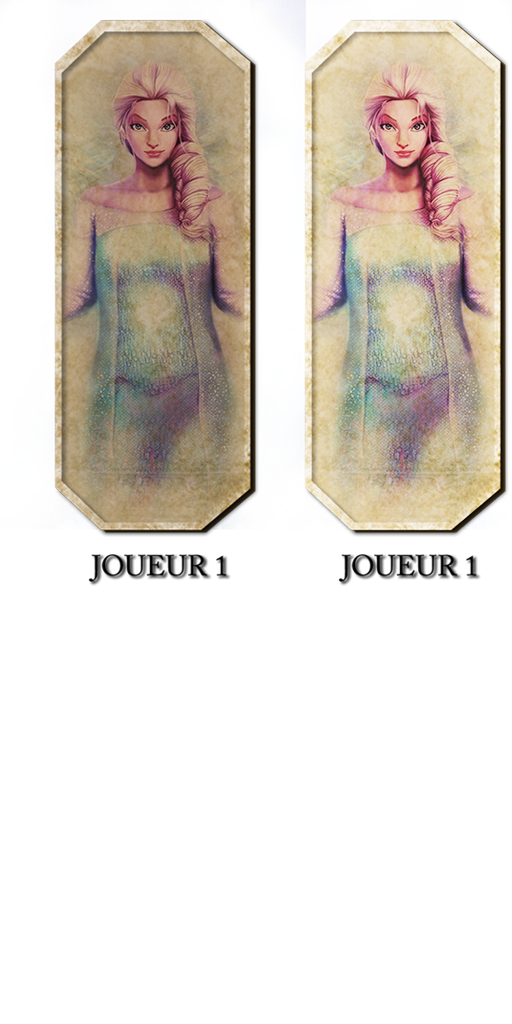
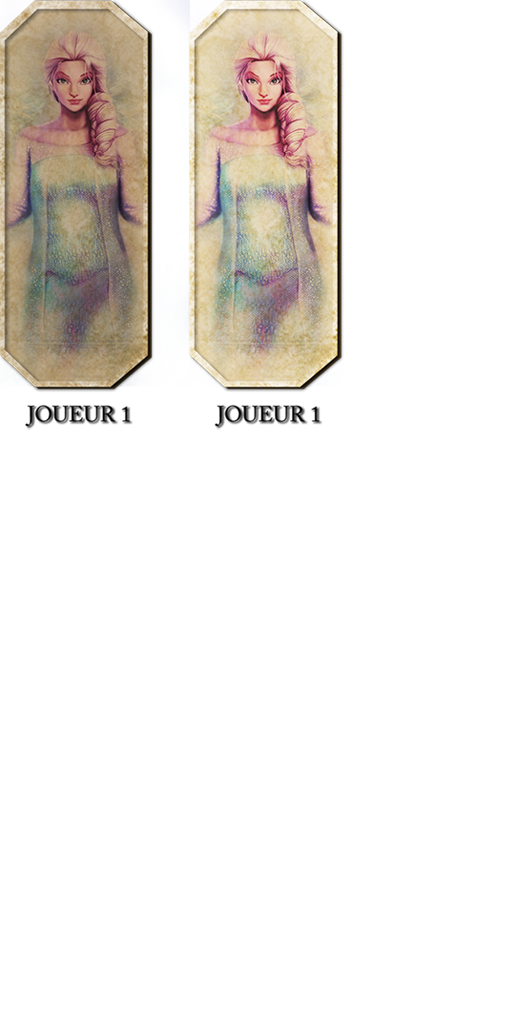
Changement du background, boutons nbjoueurs, bouton valider

diff --git a/LondonGame/src/fr/m1miage/london/game/screen/MainMenuScreen.java b/LondonGame/src/fr/m1miage/london/game/screen/MainMenuScreen.java
@@ -38,7 +38,7 @@ public class MainMenuScreen extends Screen {
 		draw(Art.bg, 0, 0);
 
 		font.draw(spriteBatch, "Nombre de joueurs :", 125, 170);
-		font.draw(spriteBatch, "Choix du skin/couleur :", 125, 250);
+		font.draw(spriteBatch, "Choix du skin/couleur :", 125, 400);
 		String msg = "COPYRIGHT Aethia 2014";
 		drawString(msg, 2, 800 -6 -2);
 		
@@ -47,9 +47,10 @@ public class MainMenuScreen extends Screen {
 		spriteBatch.end();
 		
 		stage.addActor(Buttons.button);
-		for(Button b: Buttons.buttonsNbj){
-			stage.addActor(b);
+		for(Integer mapKey : Buttons.buttonsNbj.keySet()){
+			stage.addActor(Buttons.buttonsNbj.get(mapKey));
 		}
+		stage.addActor(Buttons.btnValider);
 		stage.act();
 		stage.draw();
 	}

diff --git a/LondonGame/src/fr/m1miage/london/game/graphics/Art.java b/LondonGame/src/fr/m1miage/london/game/graphics/Art.java
@@ -15,12 +15,14 @@ import com.badlogic.gdx.scenes.scene2d.ui.TextButton.TextButtonStyle;
  */
 public class Art {
 	public static TextureRegion bg;
+	public static TextureRegion bgPartie;
 	public static TextureRegion[][] fnt;
 	
 	public static TextureRegion plateau_jeu_test;
 	
 	public static void load () {
 		bg = load("ressources/Images/background.png", 1400, 800);
+		bgPartie = load("ressources/Images/backgroundPartie.png", 1400, 800);
 		fnt = split("ressources/Images/guys.png", 6, 6);
 		plateau_jeu_test = load("ressources/Images/plateau_jeu_test.png", 512, 512);
 		

diff --git a/LondonGame/src/fr/m1miage/london/game/screen/GameScreen.java b/LondonGame/src/fr/m1miage/london/game/screen/GameScreen.java
@@ -10,15 +10,12 @@ public class GameScreen extends Screen{
 		// TODO Auto-generated method stub
 		spriteBatch.begin();
 		
-		draw(Art.bg, 0, 0);
+		draw(Art.bgPartie, 0, 0);
 		draw(Art.plateau_jeu_test,350,50);
 
-		drawString("Voici le jeu", 500, 10);
-		//draw(Art.player1Button, 200, 50);
-
-
+		
 		String msg = "COPYRIGHT Aethia 2014";
-		drawString(msg, 2, 720 -6 -2);
+		drawString(msg, 2, 800 -6 -2);
 
 
 		spriteBatch.end();
